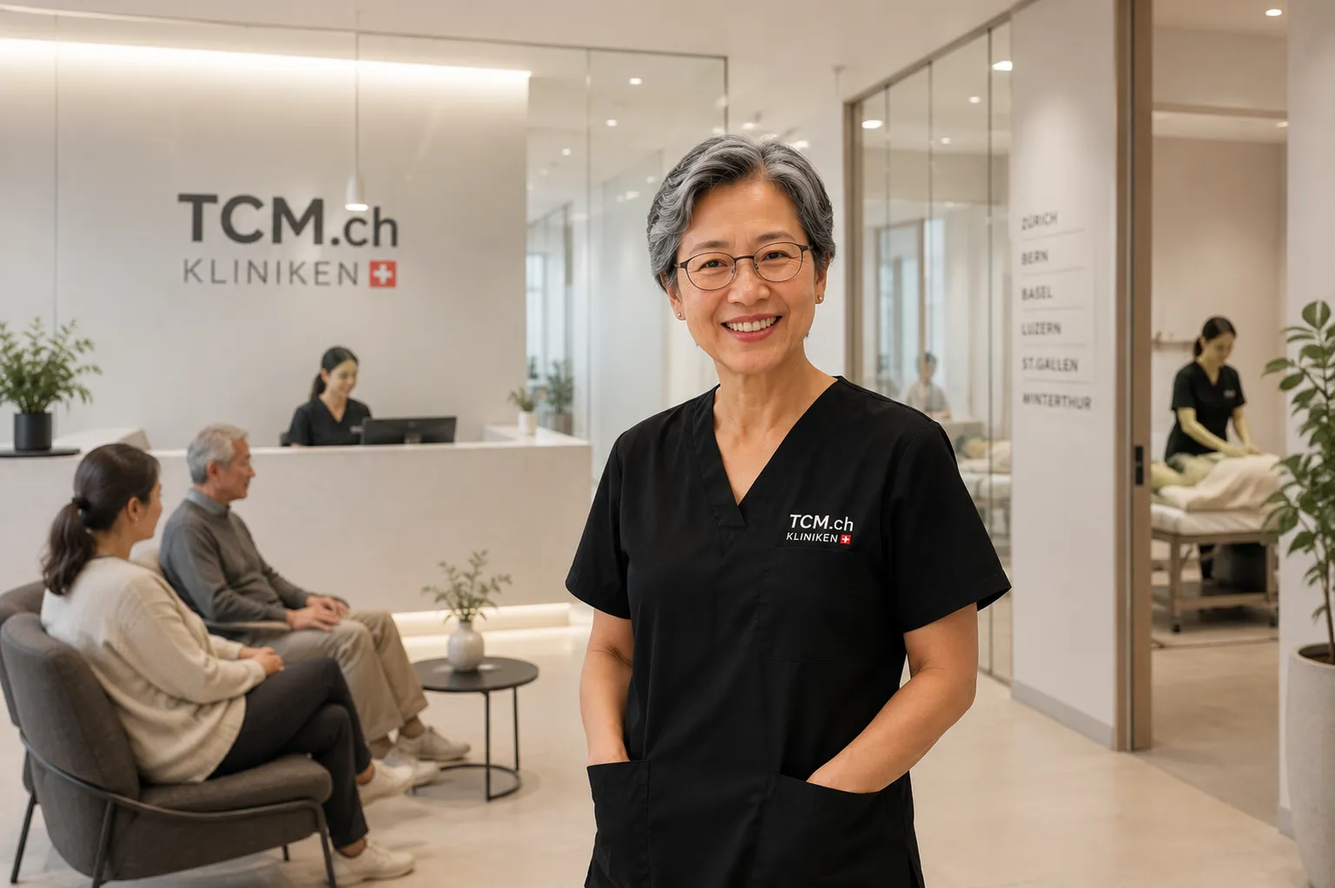
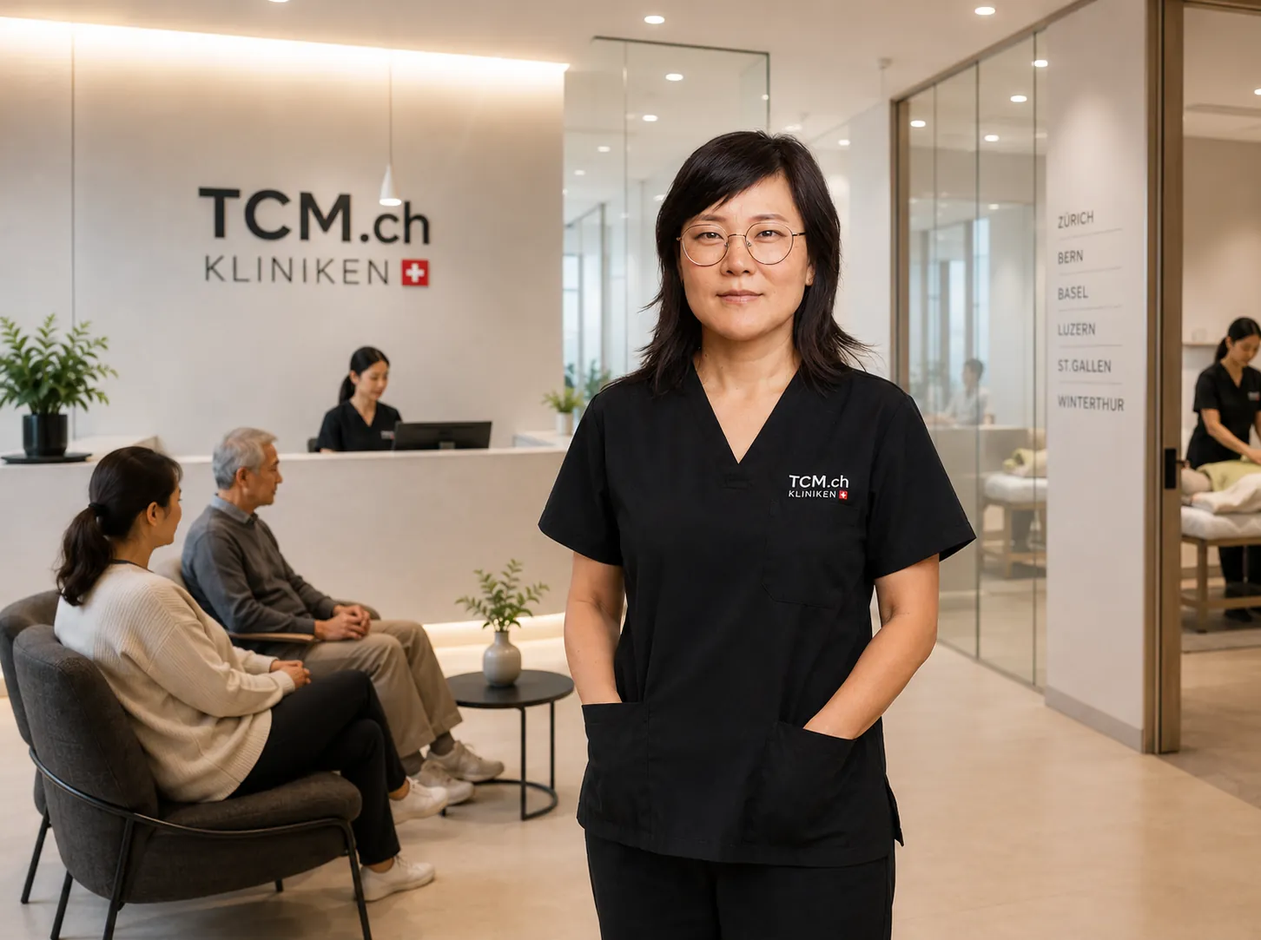
Swap Therapien + Standorte-overview hero images for new repo assets
Convert new AI PNGs -> optimized webp (therapien 47KB, standorte 66KB);
overwrite in place; update intrinsic width/height attrs to new aspect ratios.
Layout/object-fit/object-position unchanged.

diff --git a/src/data/therapien-body.html b/src/data/therapien-body.html
@@ -1,4 +1,4 @@
-<div class="page active" id="page-therapien" style="display:block"> <div id="therapien-premium-hero"><div class="back-btn-outer"><button class="back-btn" onclick="nav('home')"><svg width="13" height="13" viewBox="0 0 24 24" fill="none" stroke="currentColor" stroke-width="2.5" stroke-linecap="round" stroke-linejoin="round"><line x1="19" y1="12" x2="5" y2="12"></line><polyline points="12 19 5 12 12 5"></polyline></svg>Zurück</button></div><div class="sg-inner"><div class="sg-text"><div class="sg-crumb"><button onclick="nav('home')">TCM.ch</button><span class="sg-sep">›</span><span>Therapien</span></div><span class="sg-eyebrow">TCM-Methoden · Ärztliche Begleitung</span><h1 class="sg-title">TCM-Methoden – <em>gezielt und wirksam.</em></h1><p class="sg-location">Akupunktur · Tuina · Kräuter · Moxibustion</p><p class="sg-sub">Je nach Beschwerde kommen unterschiedliche TCM-Methoden zum Einsatz – individuell abgestimmt, gezielt eingesetzt und oft kombiniert.</p><div class="sg-ctas"><button class="btn-primary" onclick="openContactForm()">Passende Methode finden</button><a href="https://wa.me/41775236122" class="btn-secondary" target="_blank" rel="noopener">Beratung per WhatsApp</a></div><div class="sg-trust"><span class="sg-trust-item"><span class="sg-trust-dot"></span>Individuell abgestimmt</span><span class="sg-trust-item"><span class="sg-trust-dot"></span>Termine oft innert 24h</span><span class="sg-trust-item"><span class="sg-trust-dot"></span>Zusatzversicherung anerkannt</span></div></div><div class="sg-media"><img loading="eager" width="1536" height="1023" src="/images/therapien-hero.webp" alt="TCM-Therapien bei TCM.ch" fetchpriority="high" decoding="async"></div></div></div> <div id="therapien-svc-inject"><section class="section svc-section" id="s-behandlungen"> <div class="wrap"> <div class="svc-header reveal visible"> <div> <div class="section-label">Unsere Therapien</div> <h2 class="section-title">Wie wir behandeln.</h2> </div> <p class="svc-sub">Über 10 medizinisch anerkannte TCM-Methoden für Vitalität, Prävention und langfristige Gesundheit. Krankenkassenzertifiziert, an 12 Standorten.</p> </div> <div class="svc-grid"> <div class="svc-card reveal visible" onclick="nav('therapie','akupunktur')" role="button" tabindex="0"> <div class="svc-photo-wrap"> <img width="1120" height="746" id="svc-img-akupunktur" src="/images/img-c69a8f9ce7f8.webp" alt="Akupunktur" class="svc-photo" loading="lazy" style="object-position:center 30%"> <div class="svc-photo-top-bar"></div> </div> <div class="svc-body"> <div class="svc-name">Akupunktur</div> <div class="svc-tagline">Aktiviert Selbstheilungskräfte durch gezielte Nadelstimulation</div> <div class="svc-meta"> <span class="svc-badge svc-badge--time"><svg width="11" height="11" viewBox="0 0 24 24" fill="none" stroke="currentColor" stroke-width="2.2" stroke-linecap="round"><circle cx="12" cy="12" r="10"></circle><polyline points="12 6 12 12 15.5 14"></polyline></svg>45–60 Min</span> <span class="svc-badge svc-badge--ins">Zusatzversicherung</span> </div> <div class="svc-cta">Mehr erfahren <svg width="13" height="13" viewBox="0 0 24 24" fill="none" stroke="currentColor" stroke-width="2.5" stroke-linecap="round" stroke-linejoin="round"><line x1="5" y1="12" x2="19" y2="12"></line><polyline points="12 5 19 12 12 19"></polyline></svg></div> </div> </div> <div class="svc-card reveal visible" onclick="nav('therapie','gesichtsakupunktur')" role="button" tabindex="0"> <div class="svc-photo-wrap"> <img width="630" height="840" id="svc-img-gesichtsakupunktur" src="/images/img-f7c771cf39ed.webp" alt="Gesichtsakupunktur" class="svc-photo" loading="lazy" style="object-position:center 82%"> <div class="svc-photo-top-bar"></div> </div> <div class="svc-body"> <div class="svc-name">Gesichtsakupunktur</div> <div class="svc-tagline">Harmonisiert Meridiane im Gesicht – wirkt bei Stress, Spannung</div> <div class="svc-meta"> <span class="svc-badge svc-badge--time"><svg width="11" height="11" viewBox="0 0 24 24" fill="none" stroke="currentColor" stroke-width="2.2" stroke-linecap="round"><circle cx="12" cy="12" r="10"></circle><polyline points="12 6 12 12 15.5 14"></polyline></svg>40–50 Min</span> <span class="svc-badge svc-badge--ins">Zusatzversicherung</span> </div> <div class="svc-cta">Mehr erfahren <svg width="13" height="13" viewBox="0 0 24 24" fill="none" stroke="currentColor" stroke-width="2.5" stroke-linecap="round" stroke-linejoin="round"><line x1="5" y1="12" x2="19" y2="12"></line><polyline points="12 5 19 12 12 19"></polyline></svg></div> </div> </div> <div class="svc-card reveal visible" onclick="nav('therapie','schroepfen')" role="button" tabindex="0"> <div class="svc-photo-wrap"> <img width="1120" height="746" id="svc-img-schroepfen" src="/images/img-a288825ba14a.webp" alt="Schröpfen" class="svc-photo" loading="lazy" style="object-position:center"> <div class="svc-photo-top-bar"></div> </div> <div class="svc-body"> <div class="svc-name">Schröpfen</div> <div class="svc-tagline">Löst tiefe Verspannungen und fördert die Durchblutung</div> <div class="svc-meta"> <span class="svc-badge svc-badge--time"><svg width="11" height="11" viewBox="0 0 24 24" fill="none" stroke="currentColor" stroke-width="2.2" stroke-linecap="round"><circle cx="12" cy="12" r="10"></circle><polyline points="12 6 12 12 15.5 14"></polyline></svg>20–40 Min</span> <span class="svc-badge svc-badge--ins">Zusatzversicherung</span> </div> <div class="svc-cta">Mehr erfahren <svg width="13" height="13" viewBox="0 0 24 24" fill="none" stroke="currentColor" stroke-width="2.5" stroke-linecap="round" stroke-linejoin="round"><line x1="5" y1="12" x2="19" y2="12"></line><polyline points="12 5 19 12 12 19"></polyline></svg></div> </div> </div> <div class="svc-card reveal visible" onclick="nav('therapie','tuina')" role="button" tabindex="0"> <div class="svc-photo-wrap"> <img width="1120" height="746" id="svc-img-tuina" src="/images/img-2a8cecc37898.webp" alt="Tuina-Massage" class="svc-photo" loading="lazy" style="object-position:center 30%"> <div class="svc-photo-top-bar"></div> </div> <div class="svc-body"> <div class="svc-name">Tuina-Massage</div> <div class="svc-tagline">Medizinische TCM-Massage entlang der Meridiane</div> <div class="svc-meta"> <span class="svc-badge svc-badge--time"><svg width="11" height="11" viewBox="0 0 24 24" fill="none" stroke="currentColor" stroke-width="2.2" stroke-linecap="round"><circle cx="12" cy="12" r="10"></circle><polyline points="12 6 12 12 15.5 14"></polyline></svg>45–60 Min</span> <span class="svc-badge svc-badge--ins">Zusatzversicherung</span> </div> <div class="svc-cta">Mehr erfahren <svg width="13" height="13" viewBox="0 0 24 24" fill="none" stroke="currentColor" stroke-width="2.5" stroke-linecap="round" stroke-linejoin="round"><line x1="5" y1="12" x2="19" y2="12"></line><polyline points="12 5 19 12 12 19"></polyline></svg></div> </div> </div> <div class="svc-card reveal visible" onclick="nav('therapie','akupressur')" role="button" tabindex="0"> <div class="svc-photo-wrap"> <img width="1120" height="746" id="svc-img-akupressur" src="/images/img-5bf9460e0ca5.webp" alt="Akupressur" class="svc-photo" loading="lazy" style="object-position:center 40%"> <div class="svc-photo-top-bar"></div> </div> <div class="svc-body"> <div class="svc-name">Akupressur</div> <div class="svc-tagline">Gezielte Druckpunkte ohne Nadeln – sanft und effektiv</div> <div class="svc-meta"> <span class="svc-badge svc-badge--time"><svg width="11" height="11" viewBox="0 0 24 24" fill="none" stroke="currentColor" stroke-width="2.2" stroke-linecap="round"><circle cx="12" cy="12" r="10"></circle><polyline points="12 6 12 12 15.5 14"></polyline></svg>30–45 Min</span> <span class="svc-badge svc-badge--ins">Zusatzversicherung</span> </div> <div class="svc-cta">Mehr erfahren <svg width="13" height="13" viewBox="0 0 24 24" fill="none" stroke="currentColor" stroke-width="2.5" stroke-linecap="round" stroke-linejoin="round"><line x1="5" y1="12" x2="19" y2="12"></line><polyline points="12 5 19 12 12 19"></polyline></svg></div> </div> </div> <div class="svc-card reveal visible" onclick="nav('therapie','shiatsu')" role="button" tabindex="0"> <div class="svc-photo-wrap"> <img width="1120" height="746" id="svc-img-shiatsu" src="/images/img-7149f50cc917.webp" alt="Shiatsu" class="svc-photo" loading="lazy" style="object-position:center 20%"> <div class="svc-photo-top-bar"></div> </div> <div class="svc-body"> <div class="svc-name">Shiatsu</div> <div class="svc-tagline">Japanische Druckmassage für Körper und Geist im Gleichgewicht</div> <div class="svc-meta"> <span class="svc-badge svc-badge--time"><svg width="11" height="11" viewBox="0 0 24 24" fill="none" stroke="currentColor" stroke-width="2.2" stroke-linecap="round"><circle cx="12" cy="12" r="10"></circle><polyline points="12 6 12 12 15.5 14"></polyline></svg>50–60 Min</span> <span class="svc-badge svc-badge--ins">Zusatzversicherung</span> </div> <div class="svc-cta">Mehr erfahren <svg width="13" height="13" viewBox="0 0 24 24" fill="none" stroke="currentColor" stroke-width="2.5" stroke-linecap="round" stroke-linejoin="round"><line x1="5" y1="12" x2="19" y2="12"></line><polyline points="12 5 19 12 12 19"></polyline></svg></div> </div> </div> <div class="svc-card reveal visible" onclick="nav('therapie','gua-sha')" role="button" tabindex="0"> <div class="svc-photo-wrap"> <img width="1120" height="746" id="svc-img-gua-sha" src="/images/img-0e38a23a362e.webp" alt="Gua Sha" class="svc-photo" loading="lazy" style="object-position:center 20%"> <div class="svc-photo-top-bar"></div> </div> <div class="svc-body"> <div class="svc-name">Gua Sha</div> <div class="svc-tagline">Traditionelles Schaben aktiviert Qi-Fluss und löst Blockaden</div> <div class="svc-meta"> <span class="svc-badge svc-badge--time"><svg width="11" height="11" viewBox="0 0 24 24" fill="none" stroke="currentColor" stroke-width="2.2" stroke-linecap="round"><circle cx="12" cy="12" r="10"></circle><polyline points="12 6 12 12 15.5 14"></polyline></svg>30–40 Min</span> <span class="svc-badge svc-badge--ins">Zusatzversicherung</span> </div> <div class="svc-cta">Mehr erfahren <svg width="13" height="13" viewBox="0 0 24 24" fill="none" stroke="currentColor" stroke-width="2.5" stroke-linecap="round" stroke-linejoin="round"><line x1="5" y1="12" x2="19" y2="12"></line><polyline points="12 5 19 12 12 19"></polyline></svg></div> </div> </div> <div class="svc-card reveal visible" onclick="nav('therapie','physiotherapie')" role="button" tabindex="0"> <div class="svc-photo-wrap"> <img width="1120" height="746" id="svc-img-physiotherapie" src="/images/img-6a11d6de445a.webp" alt="Physiotherapie" class="svc-photo" loading="lazy" style="object-position:center 25%"> <div class="svc-photo-top-bar"></div> </div> <div class="svc-body"> <div class="svc-name">Physiotherapie</div> <div class="svc-tagline">Gezielte Bewegungs- und Manualtherapie für nachhaltige Heilung</div> <div class="svc-meta"> <span class="svc-badge svc-badge--time"><svg width="11" height="11" viewBox="0 0 24 24" fill="none" stroke="currentColor" stroke-width="2.2" stroke-linecap="round"><circle cx="12" cy="12" r="10"></circle><polyline points="12 6 12 12 15.5 14"></polyline></svg>40–60 Min</span> <span class="svc-badge svc-badge--ins">Grundversicherung</span> </div> <div class="svc-cta">Mehr erfahren <svg width="13" height="13" viewBox="0 0 24 24" fill="none" stroke="currentColor" stroke-width="2.5" stroke-linecap="round" stroke-linejoin="round"><line x1="5" y1="12" x2="19" y2="12"></line><polyline points="12 5 19 12 12 19"></polyline></svg></div> </div> </div> </div> </div> </section></div>  <section class="section kt-wrap" style="background:var(--bg)"> <div class="wrap"> <span class="kt-intro-label">Ergänzende Therapie</span> <article class="kt-feature" onclick="nav('therapie','kraeutertherapie')" role="button" tabindex="0" aria-label="Kräutertherapie – Mehr erfahren" style="cursor:pointer;-webkit-tap-highlight-color:transparent"> <div class="kt-feature-img"> <img width="630" height="840" src="/images/img-14a8b7c52ade.webp" alt="Chinesische Kräutertherapie – getrocknete Heilpflanze" loading="lazy"> </div> <div class="kt-feature-body"> <div class="kt-micro-badges"> <span class="kt-micro-badge"> <svg width="10" height="10" viewBox="0 0 24 24" fill="none" stroke="currentColor" stroke-width="2.2" stroke-linecap="round" stroke-linejoin="round"><path d="M12 22V12"></path><path d="M12 12C12 7.5 7.5 4 3.5 4c0 4.5 3.5 8 8.5 8z"></path><path d="M12 12c0-4.5 4.5-8 8.5-8c0 4.5-3.5 8-8.5 8z"></path></svg> Individuell abgestimmt </span> <span class="kt-micro-badge"> <svg width="10" height="10" viewBox="0 0 24 24" fill="none" stroke="currentColor" stroke-width="2.2" stroke-linecap="round" stroke-linejoin="round"><circle cx="12" cy="12" r="10"></circle><polyline points="12 6 12 12 16 14"></polyline></svg> Ergänzende Therapie </span> </div> <h3 class="kt-headline">Kräutertherapie</h3> <p class="kt-desc">Individuell abgestimmte TCM-Kräuter als ergänzende Begleitung – wenn passend auch für zuhause.</p> <button class="kt-cta" onclick="nav('therapie','kraeutertherapie')"> Mehr erfahren <svg width="14" height="14" viewBox="0 0 24 24" fill="none" stroke="currentColor" stroke-width="2.5" stroke-linecap="round" stroke-linejoin="round"><line x1="5" y1="12" x2="19" y2="12"></line><polyline points="12 5 19 12 12 19"></polyline></svg> </button> </div> </article> </div> </section> <div id="therapien-rev-section">
+<div class="page active" id="page-therapien" style="display:block"> <div id="therapien-premium-hero"><div class="back-btn-outer"><button class="back-btn" onclick="nav('home')"><svg width="13" height="13" viewBox="0 0 24 24" fill="none" stroke="currentColor" stroke-width="2.5" stroke-linecap="round" stroke-linejoin="round"><line x1="19" y1="12" x2="5" y2="12"></line><polyline points="12 19 5 12 12 5"></polyline></svg>Zurück</button></div><div class="sg-inner"><div class="sg-text"><div class="sg-crumb"><button onclick="nav('home')">TCM.ch</button><span class="sg-sep">›</span><span>Therapien</span></div><span class="sg-eyebrow">TCM-Methoden · Ärztliche Begleitung</span><h1 class="sg-title">TCM-Methoden – <em>gezielt und wirksam.</em></h1><p class="sg-location">Akupunktur · Tuina · Kräuter · Moxibustion</p><p class="sg-sub">Je nach Beschwerde kommen unterschiedliche TCM-Methoden zum Einsatz – individuell abgestimmt, gezielt eingesetzt und oft kombiniert.</p><div class="sg-ctas"><button class="btn-primary" onclick="openContactForm()">Passende Methode finden</button><a href="https://wa.me/41775236122" class="btn-secondary" target="_blank" rel="noopener">Beratung per WhatsApp</a></div><div class="sg-trust"><span class="sg-trust-item"><span class="sg-trust-dot"></span>Individuell abgestimmt</span><span class="sg-trust-item"><span class="sg-trust-dot"></span>Termine oft innert 24h</span><span class="sg-trust-item"><span class="sg-trust-dot"></span>Zusatzversicherung anerkannt</span></div></div><div class="sg-media"><img loading="eager" width="1492" height="1054" src="/images/therapien-hero.webp" alt="TCM-Therapien bei TCM.ch" fetchpriority="high" decoding="async"></div></div></div> <div id="therapien-svc-inject"><section class="section svc-section" id="s-behandlungen"> <div class="wrap"> <div class="svc-header reveal visible"> <div> <div class="section-label">Unsere Therapien</div> <h2 class="section-title">Wie wir behandeln.</h2> </div> <p class="svc-sub">Über 10 medizinisch anerkannte TCM-Methoden für Vitalität, Prävention und langfristige Gesundheit. Krankenkassenzertifiziert, an 12 Standorten.</p> </div> <div class="svc-grid"> <div class="svc-card reveal visible" onclick="nav('therapie','akupunktur')" role="button" tabindex="0"> <div class="svc-photo-wrap"> <img width="1120" height="746" id="svc-img-akupunktur" src="/images/img-c69a8f9ce7f8.webp" alt="Akupunktur" class="svc-photo" loading="lazy" style="object-position:center 30%"> <div class="svc-photo-top-bar"></div> </div> <div class="svc-body"> <div class="svc-name">Akupunktur</div> <div class="svc-tagline">Aktiviert Selbstheilungskräfte durch gezielte Nadelstimulation</div> <div class="svc-meta"> <span class="svc-badge svc-badge--time"><svg width="11" height="11" viewBox="0 0 24 24" fill="none" stroke="currentColor" stroke-width="2.2" stroke-linecap="round"><circle cx="12" cy="12" r="10"></circle><polyline points="12 6 12 12 15.5 14"></polyline></svg>45–60 Min</span> <span class="svc-badge svc-badge--ins">Zusatzversicherung</span> </div> <div class="svc-cta">Mehr erfahren <svg width="13" height="13" viewBox="0 0 24 24" fill="none" stroke="currentColor" stroke-width="2.5" stroke-linecap="round" stroke-linejoin="round"><line x1="5" y1="12" x2="19" y2="12"></line><polyline points="12 5 19 12 12 19"></polyline></svg></div> </div> </div> <div class="svc-card reveal visible" onclick="nav('therapie','gesichtsakupunktur')" role="button" tabindex="0"> <div class="svc-photo-wrap"> <img width="630" height="840" id="svc-img-gesichtsakupunktur" src="/images/img-f7c771cf39ed.webp" alt="Gesichtsakupunktur" class="svc-photo" loading="lazy" style="object-position:center 82%"> <div class="svc-photo-top-bar"></div> </div> <div class="svc-body"> <div class="svc-name">Gesichtsakupunktur</div> <div class="svc-tagline">Harmonisiert Meridiane im Gesicht – wirkt bei Stress, Spannung</div> <div class="svc-meta"> <span class="svc-badge svc-badge--time"><svg width="11" height="11" viewBox="0 0 24 24" fill="none" stroke="currentColor" stroke-width="2.2" stroke-linecap="round"><circle cx="12" cy="12" r="10"></circle><polyline points="12 6 12 12 15.5 14"></polyline></svg>40–50 Min</span> <span class="svc-badge svc-badge--ins">Zusatzversicherung</span> </div> <div class="svc-cta">Mehr erfahren <svg width="13" height="13" viewBox="0 0 24 24" fill="none" stroke="currentColor" stroke-width="2.5" stroke-linecap="round" stroke-linejoin="round"><line x1="5" y1="12" x2="19" y2="12"></line><polyline points="12 5 19 12 12 19"></polyline></svg></div> </div> </div> <div class="svc-card reveal visible" onclick="nav('therapie','schroepfen')" role="button" tabindex="0"> <div class="svc-photo-wrap"> <img width="1120" height="746" id="svc-img-schroepfen" src="/images/img-a288825ba14a.webp" alt="Schröpfen" class="svc-photo" loading="lazy" style="object-position:center"> <div class="svc-photo-top-bar"></div> </div> <div class="svc-body"> <div class="svc-name">Schröpfen</div> <div class="svc-tagline">Löst tiefe Verspannungen und fördert die Durchblutung</div> <div class="svc-meta"> <span class="svc-badge svc-badge--time"><svg width="11" height="11" viewBox="0 0 24 24" fill="none" stroke="currentColor" stroke-width="2.2" stroke-linecap="round"><circle cx="12" cy="12" r="10"></circle><polyline points="12 6 12 12 15.5 14"></polyline></svg>20–40 Min</span> <span class="svc-badge svc-badge--ins">Zusatzversicherung</span> </div> <div class="svc-cta">Mehr erfahren <svg width="13" height="13" viewBox="0 0 24 24" fill="none" stroke="currentColor" stroke-width="2.5" stroke-linecap="round" stroke-linejoin="round"><line x1="5" y1="12" x2="19" y2="12"></line><polyline points="12 5 19 12 12 19"></polyline></svg></div> </div> </div> <div class="svc-card reveal visible" onclick="nav('therapie','tuina')" role="button" tabindex="0"> <div class="svc-photo-wrap"> <img width="1120" height="746" id="svc-img-tuina" src="/images/img-2a8cecc37898.webp" alt="Tuina-Massage" class="svc-photo" loading="lazy" style="object-position:center 30%"> <div class="svc-photo-top-bar"></div> </div> <div class="svc-body"> <div class="svc-name">Tuina-Massage</div> <div class="svc-tagline">Medizinische TCM-Massage entlang der Meridiane</div> <div class="svc-meta"> <span class="svc-badge svc-badge--time"><svg width="11" height="11" viewBox="0 0 24 24" fill="none" stroke="currentColor" stroke-width="2.2" stroke-linecap="round"><circle cx="12" cy="12" r="10"></circle><polyline points="12 6 12 12 15.5 14"></polyline></svg>45–60 Min</span> <span class="svc-badge svc-badge--ins">Zusatzversicherung</span> </div> <div class="svc-cta">Mehr erfahren <svg width="13" height="13" viewBox="0 0 24 24" fill="none" stroke="currentColor" stroke-width="2.5" stroke-linecap="round" stroke-linejoin="round"><line x1="5" y1="12" x2="19" y2="12"></line><polyline points="12 5 19 12 12 19"></polyline></svg></div> </div> </div> <div class="svc-card reveal visible" onclick="nav('therapie','akupressur')" role="button" tabindex="0"> <div class="svc-photo-wrap"> <img width="1120" height="746" id="svc-img-akupressur" src="/images/img-5bf9460e0ca5.webp" alt="Akupressur" class="svc-photo" loading="lazy" style="object-position:center 40%"> <div class="svc-photo-top-bar"></div> </div> <div class="svc-body"> <div class="svc-name">Akupressur</div> <div class="svc-tagline">Gezielte Druckpunkte ohne Nadeln – sanft und effektiv</div> <div class="svc-meta"> <span class="svc-badge svc-badge--time"><svg width="11" height="11" viewBox="0 0 24 24" fill="none" stroke="currentColor" stroke-width="2.2" stroke-linecap="round"><circle cx="12" cy="12" r="10"></circle><polyline points="12 6 12 12 15.5 14"></polyline></svg>30–45 Min</span> <span class="svc-badge svc-badge--ins">Zusatzversicherung</span> </div> <div class="svc-cta">Mehr erfahren <svg width="13" height="13" viewBox="0 0 24 24" fill="none" stroke="currentColor" stroke-width="2.5" stroke-linecap="round" stroke-linejoin="round"><line x1="5" y1="12" x2="19" y2="12"></line><polyline points="12 5 19 12 12 19"></polyline></svg></div> </div> </div> <div class="svc-card reveal visible" onclick="nav('therapie','shiatsu')" role="button" tabindex="0"> <div class="svc-photo-wrap"> <img width="1120" height="746" id="svc-img-shiatsu" src="/images/img-7149f50cc917.webp" alt="Shiatsu" class="svc-photo" loading="lazy" style="object-position:center 20%"> <div class="svc-photo-top-bar"></div> </div> <div class="svc-body"> <div class="svc-name">Shiatsu</div> <div class="svc-tagline">Japanische Druckmassage für Körper und Geist im Gleichgewicht</div> <div class="svc-meta"> <span class="svc-badge svc-badge--time"><svg width="11" height="11" viewBox="0 0 24 24" fill="none" stroke="currentColor" stroke-width="2.2" stroke-linecap="round"><circle cx="12" cy="12" r="10"></circle><polyline points="12 6 12 12 15.5 14"></polyline></svg>50–60 Min</span> <span class="svc-badge svc-badge--ins">Zusatzversicherung</span> </div> <div class="svc-cta">Mehr erfahren <svg width="13" height="13" viewBox="0 0 24 24" fill="none" stroke="currentColor" stroke-width="2.5" stroke-linecap="round" stroke-linejoin="round"><line x1="5" y1="12" x2="19" y2="12"></line><polyline points="12 5 19 12 12 19"></polyline></svg></div> </div> </div> <div class="svc-card reveal visible" onclick="nav('therapie','gua-sha')" role="button" tabindex="0"> <div class="svc-photo-wrap"> <img width="1120" height="746" id="svc-img-gua-sha" src="/images/img-0e38a23a362e.webp" alt="Gua Sha" class="svc-photo" loading="lazy" style="object-position:center 20%"> <div class="svc-photo-top-bar"></div> </div> <div class="svc-body"> <div class="svc-name">Gua Sha</div> <div class="svc-tagline">Traditionelles Schaben aktiviert Qi-Fluss und löst Blockaden</div> <div class="svc-meta"> <span class="svc-badge svc-badge--time"><svg width="11" height="11" viewBox="0 0 24 24" fill="none" stroke="currentColor" stroke-width="2.2" stroke-linecap="round"><circle cx="12" cy="12" r="10"></circle><polyline points="12 6 12 12 15.5 14"></polyline></svg>30–40 Min</span> <span class="svc-badge svc-badge--ins">Zusatzversicherung</span> </div> <div class="svc-cta">Mehr erfahren <svg width="13" height="13" viewBox="0 0 24 24" fill="none" stroke="currentColor" stroke-width="2.5" stroke-linecap="round" stroke-linejoin="round"><line x1="5" y1="12" x2="19" y2="12"></line><polyline points="12 5 19 12 12 19"></polyline></svg></div> </div> </div> <div class="svc-card reveal visible" onclick="nav('therapie','physiotherapie')" role="button" tabindex="0"> <div class="svc-photo-wrap"> <img width="1120" height="746" id="svc-img-physiotherapie" src="/images/img-6a11d6de445a.webp" alt="Physiotherapie" class="svc-photo" loading="lazy" style="object-position:center 25%"> <div class="svc-photo-top-bar"></div> </div> <div class="svc-body"> <div class="svc-name">Physiotherapie</div> <div class="svc-tagline">Gezielte Bewegungs- und Manualtherapie für nachhaltige Heilung</div> <div class="svc-meta"> <span class="svc-badge svc-badge--time"><svg width="11" height="11" viewBox="0 0 24 24" fill="none" stroke="currentColor" stroke-width="2.2" stroke-linecap="round"><circle cx="12" cy="12" r="10"></circle><polyline points="12 6 12 12 15.5 14"></polyline></svg>40–60 Min</span> <span class="svc-badge svc-badge--ins">Grundversicherung</span> </div> <div class="svc-cta">Mehr erfahren <svg width="13" height="13" viewBox="0 0 24 24" fill="none" stroke="currentColor" stroke-width="2.5" stroke-linecap="round" stroke-linejoin="round"><line x1="5" y1="12" x2="19" y2="12"></line><polyline points="12 5 19 12 12 19"></polyline></svg></div> </div> </div> </div> </div> </section></div>  <section class="section kt-wrap" style="background:var(--bg)"> <div class="wrap"> <span class="kt-intro-label">Ergänzende Therapie</span> <article class="kt-feature" onclick="nav('therapie','kraeutertherapie')" role="button" tabindex="0" aria-label="Kräutertherapie – Mehr erfahren" style="cursor:pointer;-webkit-tap-highlight-color:transparent"> <div class="kt-feature-img"> <img width="630" height="840" src="/images/img-14a8b7c52ade.webp" alt="Chinesische Kräutertherapie – getrocknete Heilpflanze" loading="lazy"> </div> <div class="kt-feature-body"> <div class="kt-micro-badges"> <span class="kt-micro-badge"> <svg width="10" height="10" viewBox="0 0 24 24" fill="none" stroke="currentColor" stroke-width="2.2" stroke-linecap="round" stroke-linejoin="round"><path d="M12 22V12"></path><path d="M12 12C12 7.5 7.5 4 3.5 4c0 4.5 3.5 8 8.5 8z"></path><path d="M12 12c0-4.5 4.5-8 8.5-8c0 4.5-3.5 8-8.5 8z"></path></svg> Individuell abgestimmt </span> <span class="kt-micro-badge"> <svg width="10" height="10" viewBox="0 0 24 24" fill="none" stroke="currentColor" stroke-width="2.2" stroke-linecap="round" stroke-linejoin="round"><circle cx="12" cy="12" r="10"></circle><polyline points="12 6 12 12 16 14"></polyline></svg> Ergänzende Therapie </span> </div> <h3 class="kt-headline">Kräutertherapie</h3> <p class="kt-desc">Individuell abgestimmte TCM-Kräuter als ergänzende Begleitung – wenn passend auch für zuhause.</p> <button class="kt-cta" onclick="nav('therapie','kraeutertherapie')"> Mehr erfahren <svg width="14" height="14" viewBox="0 0 24 24" fill="none" stroke="currentColor" stroke-width="2.5" stroke-linecap="round" stroke-linejoin="round"><line x1="5" y1="12" x2="19" y2="12"></line><polyline points="12 5 19 12 12 19"></polyline></svg> </button> </div> </article> </div> </section> <div id="therapien-rev-section">
 <section class="subpage-reviews"> <div class="wrap"> <div class="reviews-header"> <div> <div class="section-label">Erfahrungen</div> <h2 class="section-title">Erfahrungen mit TCM-Therapien.</h2> </div> <div class="google-badge">
 <svg width="18" height="18" viewBox="0 0 24 24"><path fill="#4285F4" d="M22.56 12.25c0-.78-.07-1.53-.2-2.25H12v4.26h5.92c-.26 1.37-1.04 2.53-2.21 3.31v2.77h3.57c2.08-1.92 3.28-4.74 3.28-8.09z"></path><path fill="#34A853" d="M12 23c2.97 0 5.46-.98 7.28-2.66l-3.57-2.77c-.98.66-2.23 1.06-3.71 1.06-2.86 0-5.29-1.93-6.16-4.53H2.18v2.84C3.99 20.53 7.7 23 12 23z"></path><path fill="#FBBC05" d="M5.84 14.09c-.22-.66-.35-1.36-.35-2.09s.13-1.43.35-2.09V7.07H2.18C1.43 8.55 1 10.22 1 12s.43 3.45 1.18 4.93l2.85-2.22.81-.62z"></path><path fill="#EA4335" d="M12 5.38c1.62 0 3.06.56 4.21 1.64l3.15-3.15C17.45 2.09 14.97 1 12 1 7.7 1 3.99 3.47 2.18 7.07l3.66 2.84c.87-2.6 3.3-4.53 6.16-4.53z"></path></svg>
 <span class="google-stars">★★★★★</span> <span class="google-score">4.9</span> <span class="google-count">(Google Reviews)</span> </div> </div> <div class="reviews-grid reveal">

diff --git a/src/data/standorte-body.html b/src/data/standorte-body.html
@@ -1,4 +1,4 @@
-<div class="page active" id="page-standorte" style="display:block"> <div id="standorte-premium-hero"><div class="back-btn-outer"><button class="back-btn" onclick="nav('home')"><svg width="13" height="13" viewBox="0 0 24 24" fill="none" stroke="currentColor" stroke-width="2.5" stroke-linecap="round" stroke-linejoin="round"><line x1="19" y1="12" x2="5" y2="12"></line><polyline points="12 19 5 12 12 5"></polyline></svg>Zurück</button></div><div class="sg-inner"><div class="sg-text"><div class="sg-crumb"><button onclick="nav('home')">TCM.ch</button><span class="sg-sep">›</span><span>Standorte</span></div><span class="sg-eyebrow">Schweizweit · 12 TCM.ch Kliniken</span><h1 class="sg-title">TCM.ch Kliniken <em>in deiner Nähe.</em></h1><p class="sg-location">Deutschschweiz – von Kreuzlingen bis Basel</p><p class="sg-sub">12 medizinisch geführte Standorte – von Kreuzlingen und Frauenfeld über Winterthur und Zürich bis Basel und St. Gallen.</p><div class="sg-ctas"><button class="btn-primary" onclick="openContactForm()">Passende TCM.ch-Klinik finden</button><a href="https://wa.me/41775236122" class="btn-secondary" target="_blank" rel="noopener">Per WhatsApp starten</a></div><div class="sg-trust"><span class="sg-trust-item"><span class="sg-trust-dot"></span>12 Standorte schweizweit</span><span class="sg-trust-item"><span class="sg-trust-dot"></span>Termine oft innert 24h</span><span class="sg-trust-item"><span class="sg-trust-dot"></span>Zusatzversicherung anerkannt</span></div></div><div class="sg-media"><img loading="eager" width="1536" height="1023" src="/images/standorte-hero.webp" alt="TCM.ch Standorte in der Deutschschweiz" fetchpriority="high" decoding="async"></div></div></div> <section class="section"><div class="wrap"> <div class="reveal visible"><div class="section-label">Alle Standorte</div><h2 class="section-title">12 Praxen schweizweit.</h2></div> <p class="location-intro">Wähle deinen Standort.</p><div class="city-grid reveal visible" id="standorte-grid"><div class="city-card location-card" onclick="nav('standort','zuerich-oerlikon')" style="cursor:pointer"><span class="location-plz">8050</span><div class="location-city">Oerlikon</div><div class="location-desc">Zürich Nord</div><span class="location-link">Termin prüfen →</span></div><div class="city-card location-card" onclick="nav('standort','zuerich-hoengg')" style="cursor:pointer"><span class="location-plz">8049</span><div class="location-city">Höngg</div><div class="location-desc">Zürich West</div><span class="location-link">Termin prüfen →</span></div><div class="city-card location-card" onclick="nav('standort','winterthur-muenzgasse')" style="cursor:pointer"><span class="location-plz">8400</span><div class="location-city">Winterthur Münzgasse</div><div class="location-desc">Nahe Zürich</div><span class="location-link">Termin prüfen →</span></div><div class="city-card location-card" onclick="nav('standort','kreuzlingen')" style="cursor:pointer"><span class="location-plz">8280</span><div class="location-city">Kreuzlingen</div><div class="location-desc">Am Bodensee</div><span class="location-link">Termin prüfen →</span></div><div class="city-card location-card" onclick="nav('standort','frauenfeld')" style="cursor:pointer"><span class="location-plz">8500</span><div class="location-city">Frauenfeld</div><div class="location-desc">Kanton Thurgau</div><span class="location-link">Termin prüfen →</span></div><div class="city-card location-card" onclick="nav('standort','winterthur-marktgasse')" style="cursor:pointer"><span class="location-plz">8400</span><div class="location-city">Winterthur Marktgasse</div><div class="location-desc">Altstadt</div><span class="location-link">Termin prüfen →</span></div><div class="city-card location-card" onclick="nav('standort','volketswil')" style="cursor:pointer"><span class="location-plz">8604</span><div class="location-city">Volketswil</div><div class="location-desc">Zürich Glattal</div><span class="location-link">Termin prüfen →</span></div><div class="city-card location-card" onclick="nav('standort','st-gallen')" style="cursor:pointer"><span class="location-plz">9000</span><div class="location-city">St. Gallen</div><div class="location-desc">Ostschweiz</div><span class="location-link">Termin prüfen →</span></div><div class="city-card location-card" onclick="nav('standort','rorschach')" style="cursor:pointer"><span class="location-plz">9400</span><div class="location-city">Rorschach</div><div class="location-desc">Bodenseeregion</div><span class="location-link">Termin prüfen →</span></div><div class="city-card location-card" onclick="nav('standort','wil')" style="cursor:pointer"><span class="location-plz">9500</span><div class="location-city">Wil</div><div class="location-desc">Fürstenland</div><span class="location-link">Termin prüfen →</span></div><div class="city-card location-card" onclick="nav('standort','zuerich-city')" style="cursor:pointer"><span class="location-plz">8001</span><div class="location-city">Zürich City</div><div class="location-desc">Zentral in Zürich</div><span class="location-link">Termin prüfen →</span></div><div class="city-card location-card" onclick="nav('standort','basel')" style="cursor:pointer"><span class="location-plz">4051</span><div class="location-city">Basel</div><div class="location-desc">Innenstadt</div><span class="location-link">Termin prüfen →</span></div><div class="city-card location-card location-card--finder" onclick="openContactForm()" style="cursor:pointer"><div class="location-plz loc-plz-dots">···</div><div class="location-city">Standort nicht dabei?</div><div class="location-canton">&nbsp;</div><div class="location-desc">Wir buchen dich in die nächste TCM.ch-Klinik ein.</div><span class="location-link">Standort finden →</span></div></div> </div></section> <div id="standorte-rev-section">
+<div class="page active" id="page-standorte" style="display:block"> <div id="standorte-premium-hero"><div class="back-btn-outer"><button class="back-btn" onclick="nav('home')"><svg width="13" height="13" viewBox="0 0 24 24" fill="none" stroke="currentColor" stroke-width="2.5" stroke-linecap="round" stroke-linejoin="round"><line x1="19" y1="12" x2="5" y2="12"></line><polyline points="12 19 5 12 12 5"></polyline></svg>Zurück</button></div><div class="sg-inner"><div class="sg-text"><div class="sg-crumb"><button onclick="nav('home')">TCM.ch</button><span class="sg-sep">›</span><span>Standorte</span></div><span class="sg-eyebrow">Schweizweit · 12 TCM.ch Kliniken</span><h1 class="sg-title">TCM.ch Kliniken <em>in deiner Nähe.</em></h1><p class="sg-location">Deutschschweiz – von Kreuzlingen bis Basel</p><p class="sg-sub">12 medizinisch geführte Standorte – von Kreuzlingen und Frauenfeld über Winterthur und Zürich bis Basel und St. Gallen.</p><div class="sg-ctas"><button class="btn-primary" onclick="openContactForm()">Passende TCM.ch-Klinik finden</button><a href="https://wa.me/41775236122" class="btn-secondary" target="_blank" rel="noopener">Per WhatsApp starten</a></div><div class="sg-trust"><span class="sg-trust-item"><span class="sg-trust-dot"></span>12 Standorte schweizweit</span><span class="sg-trust-item"><span class="sg-trust-dot"></span>Termine oft innert 24h</span><span class="sg-trust-item"><span class="sg-trust-dot"></span>Zusatzversicherung anerkannt</span></div></div><div class="sg-media"><img loading="eager" width="1452" height="1083" src="/images/standorte-hero.webp" alt="TCM.ch Standorte in der Deutschschweiz" fetchpriority="high" decoding="async"></div></div></div> <section class="section"><div class="wrap"> <div class="reveal visible"><div class="section-label">Alle Standorte</div><h2 class="section-title">12 Praxen schweizweit.</h2></div> <p class="location-intro">Wähle deinen Standort.</p><div class="city-grid reveal visible" id="standorte-grid"><div class="city-card location-card" onclick="nav('standort','zuerich-oerlikon')" style="cursor:pointer"><span class="location-plz">8050</span><div class="location-city">Oerlikon</div><div class="location-desc">Zürich Nord</div><span class="location-link">Termin prüfen →</span></div><div class="city-card location-card" onclick="nav('standort','zuerich-hoengg')" style="cursor:pointer"><span class="location-plz">8049</span><div class="location-city">Höngg</div><div class="location-desc">Zürich West</div><span class="location-link">Termin prüfen →</span></div><div class="city-card location-card" onclick="nav('standort','winterthur-muenzgasse')" style="cursor:pointer"><span class="location-plz">8400</span><div class="location-city">Winterthur Münzgasse</div><div class="location-desc">Nahe Zürich</div><span class="location-link">Termin prüfen →</span></div><div class="city-card location-card" onclick="nav('standort','kreuzlingen')" style="cursor:pointer"><span class="location-plz">8280</span><div class="location-city">Kreuzlingen</div><div class="location-desc">Am Bodensee</div><span class="location-link">Termin prüfen →</span></div><div class="city-card location-card" onclick="nav('standort','frauenfeld')" style="cursor:pointer"><span class="location-plz">8500</span><div class="location-city">Frauenfeld</div><div class="location-desc">Kanton Thurgau</div><span class="location-link">Termin prüfen →</span></div><div class="city-card location-card" onclick="nav('standort','winterthur-marktgasse')" style="cursor:pointer"><span class="location-plz">8400</span><div class="location-city">Winterthur Marktgasse</div><div class="location-desc">Altstadt</div><span class="location-link">Termin prüfen →</span></div><div class="city-card location-card" onclick="nav('standort','volketswil')" style="cursor:pointer"><span class="location-plz">8604</span><div class="location-city">Volketswil</div><div class="location-desc">Zürich Glattal</div><span class="location-link">Termin prüfen →</span></div><div class="city-card location-card" onclick="nav('standort','st-gallen')" style="cursor:pointer"><span class="location-plz">9000</span><div class="location-city">St. Gallen</div><div class="location-desc">Ostschweiz</div><span class="location-link">Termin prüfen →</span></div><div class="city-card location-card" onclick="nav('standort','rorschach')" style="cursor:pointer"><span class="location-plz">9400</span><div class="location-city">Rorschach</div><div class="location-desc">Bodenseeregion</div><span class="location-link">Termin prüfen →</span></div><div class="city-card location-card" onclick="nav('standort','wil')" style="cursor:pointer"><span class="location-plz">9500</span><div class="location-city">Wil</div><div class="location-desc">Fürstenland</div><span class="location-link">Termin prüfen →</span></div><div class="city-card location-card" onclick="nav('standort','zuerich-city')" style="cursor:pointer"><span class="location-plz">8001</span><div class="location-city">Zürich City</div><div class="location-desc">Zentral in Zürich</div><span class="location-link">Termin prüfen →</span></div><div class="city-card location-card" onclick="nav('standort','basel')" style="cursor:pointer"><span class="location-plz">4051</span><div class="location-city">Basel</div><div class="location-desc">Innenstadt</div><span class="location-link">Termin prüfen →</span></div><div class="city-card location-card location-card--finder" onclick="openContactForm()" style="cursor:pointer"><div class="location-plz loc-plz-dots">···</div><div class="location-city">Standort nicht dabei?</div><div class="location-canton">&nbsp;</div><div class="location-desc">Wir buchen dich in die nächste TCM.ch-Klinik ein.</div><span class="location-link">Standort finden →</span></div></div> </div></section> <div id="standorte-rev-section">
 <section class="subpage-reviews"> <div class="wrap"> <div class="reviews-header"> <div> <div class="section-label">Erfahrungen</div> <h2 class="section-title">Was Patienten sagen.</h2> </div> <div class="google-badge">
 <svg width="18" height="18" viewBox="0 0 24 24"><path fill="#4285F4" d="M22.56 12.25c0-.78-.07-1.53-.2-2.25H12v4.26h5.92c-.26 1.37-1.04 2.53-2.21 3.31v2.77h3.57c2.08-1.92 3.28-4.74 3.28-8.09z"></path><path fill="#34A853" d="M12 23c2.97 0 5.46-.98 7.28-2.66l-3.57-2.77c-.98.66-2.23 1.06-3.71 1.06-2.86 0-5.29-1.93-6.16-4.53H2.18v2.84C3.99 20.53 7.7 23 12 23z"></path><path fill="#FBBC05" d="M5.84 14.09c-.22-.66-.35-1.36-.35-2.09s.13-1.43.35-2.09V7.07H2.18C1.43 8.55 1 10.22 1 12s.43 3.45 1.18 4.93l2.85-2.22.81-.62z"></path><path fill="#EA4335" d="M12 5.38c1.62 0 3.06.56 4.21 1.64l3.15-3.15C17.45 2.09 14.97 1 12 1 7.7 1 3.99 3.47 2.18 7.07l3.66 2.84c.87-2.6 3.3-4.53 6.16-4.53z"></path></svg>
 <span class="google-stars">★★★★★</span> <span class="google-score">4.9</span> <span class="google-count">(Google Reviews)</span> </div> </div> <div class="reviews-grid reveal">
